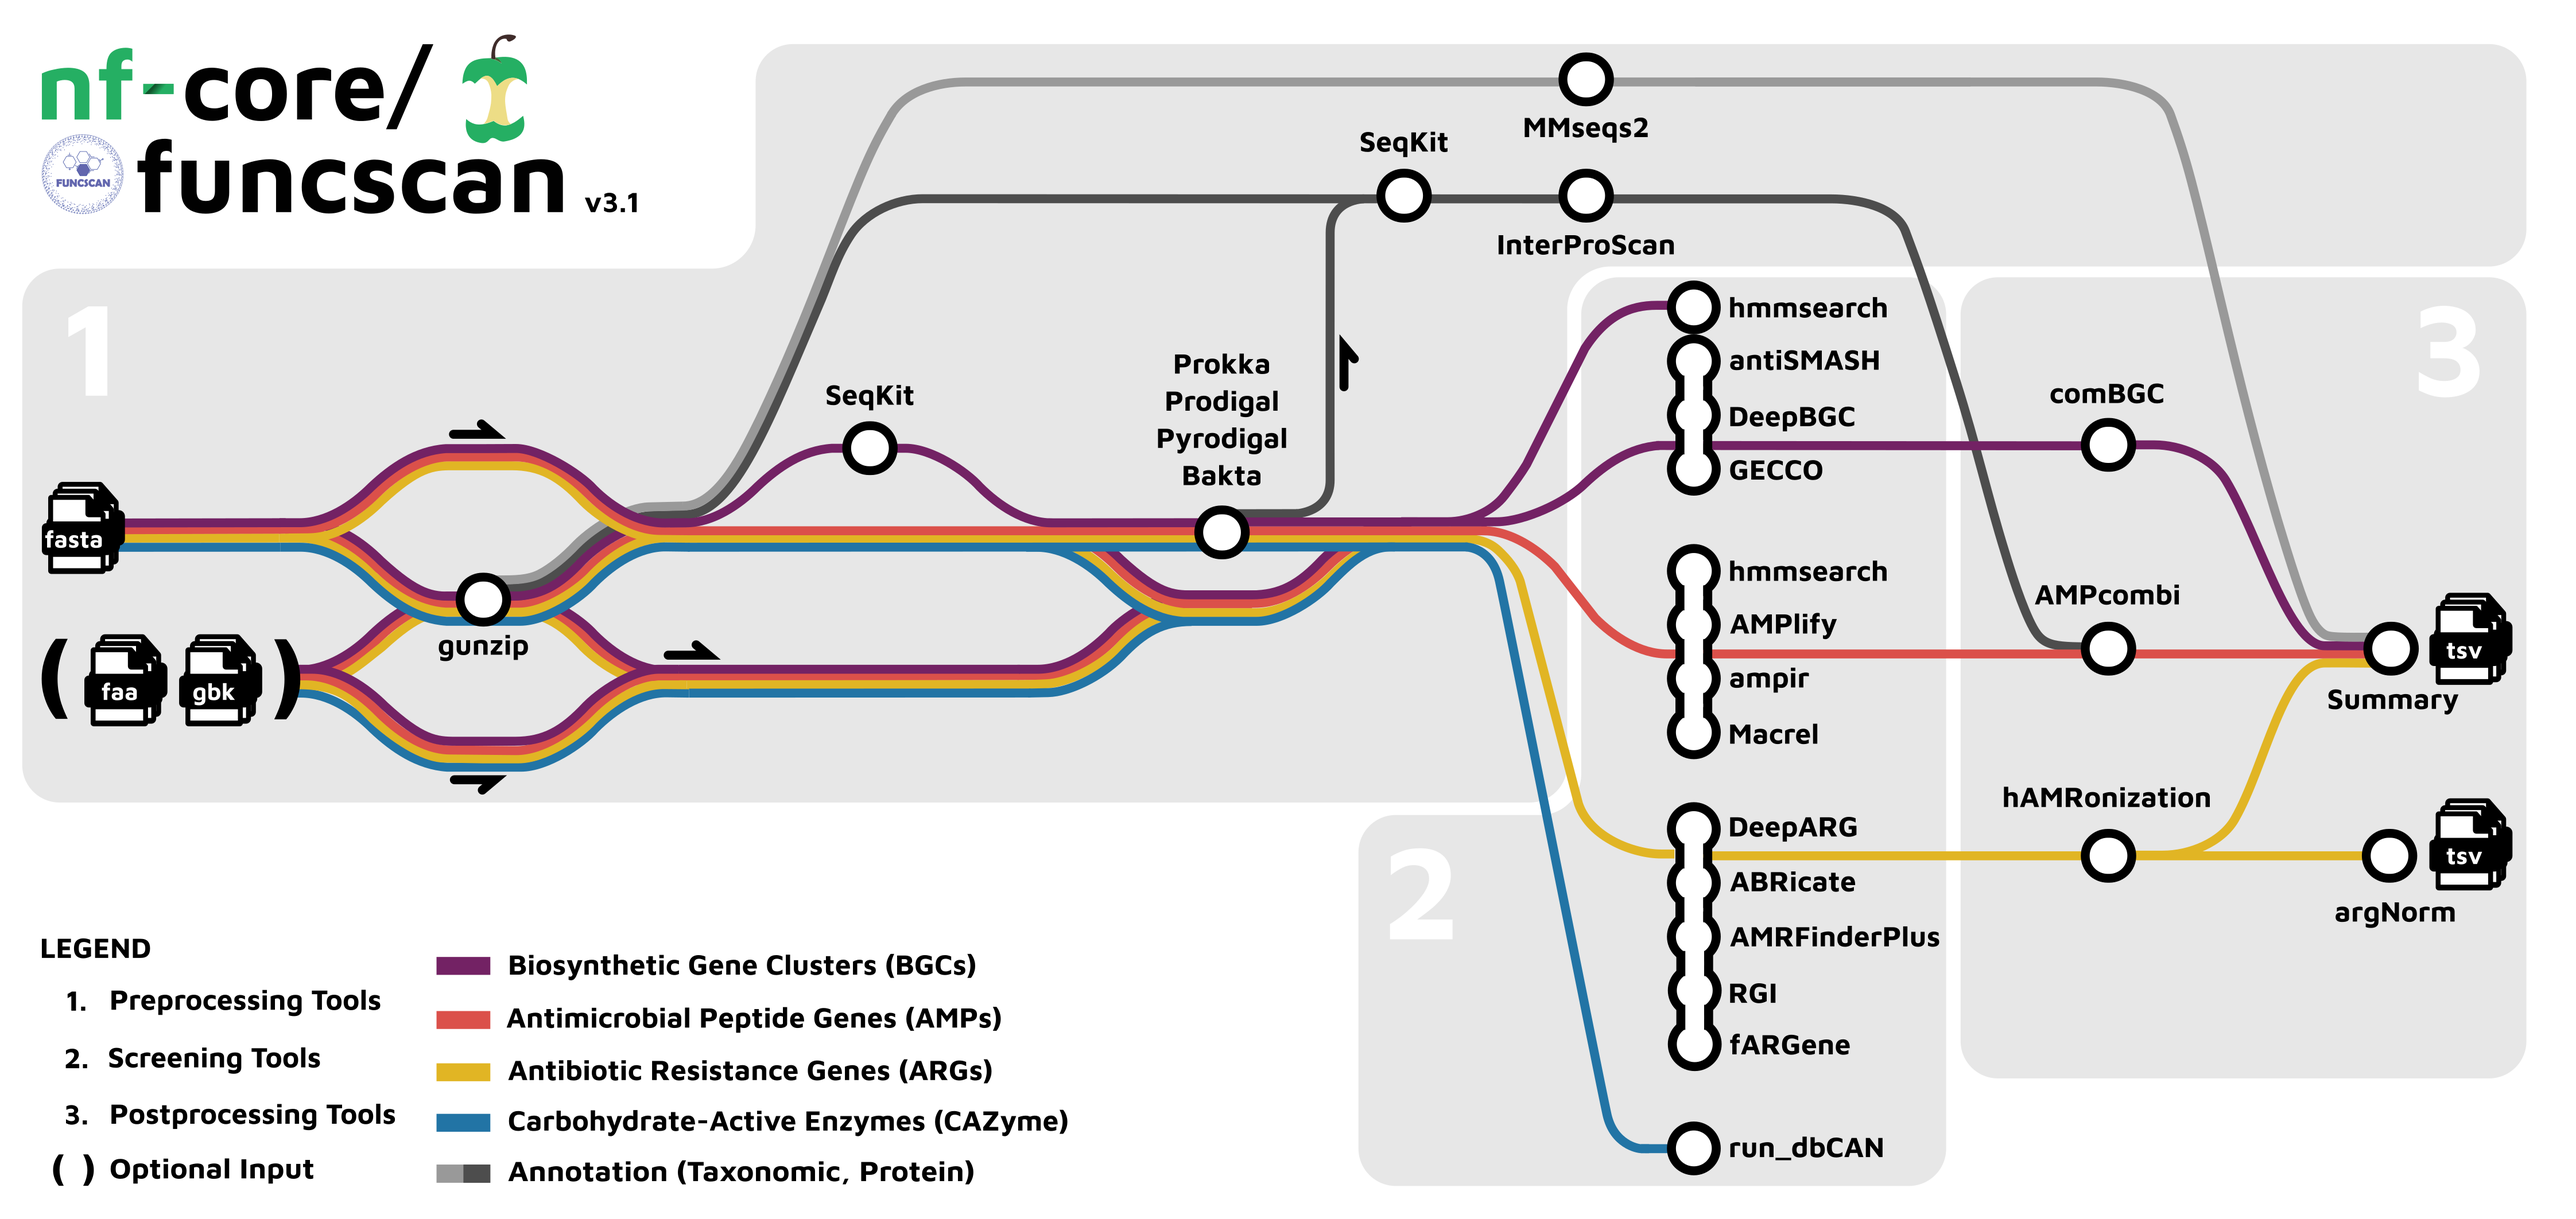
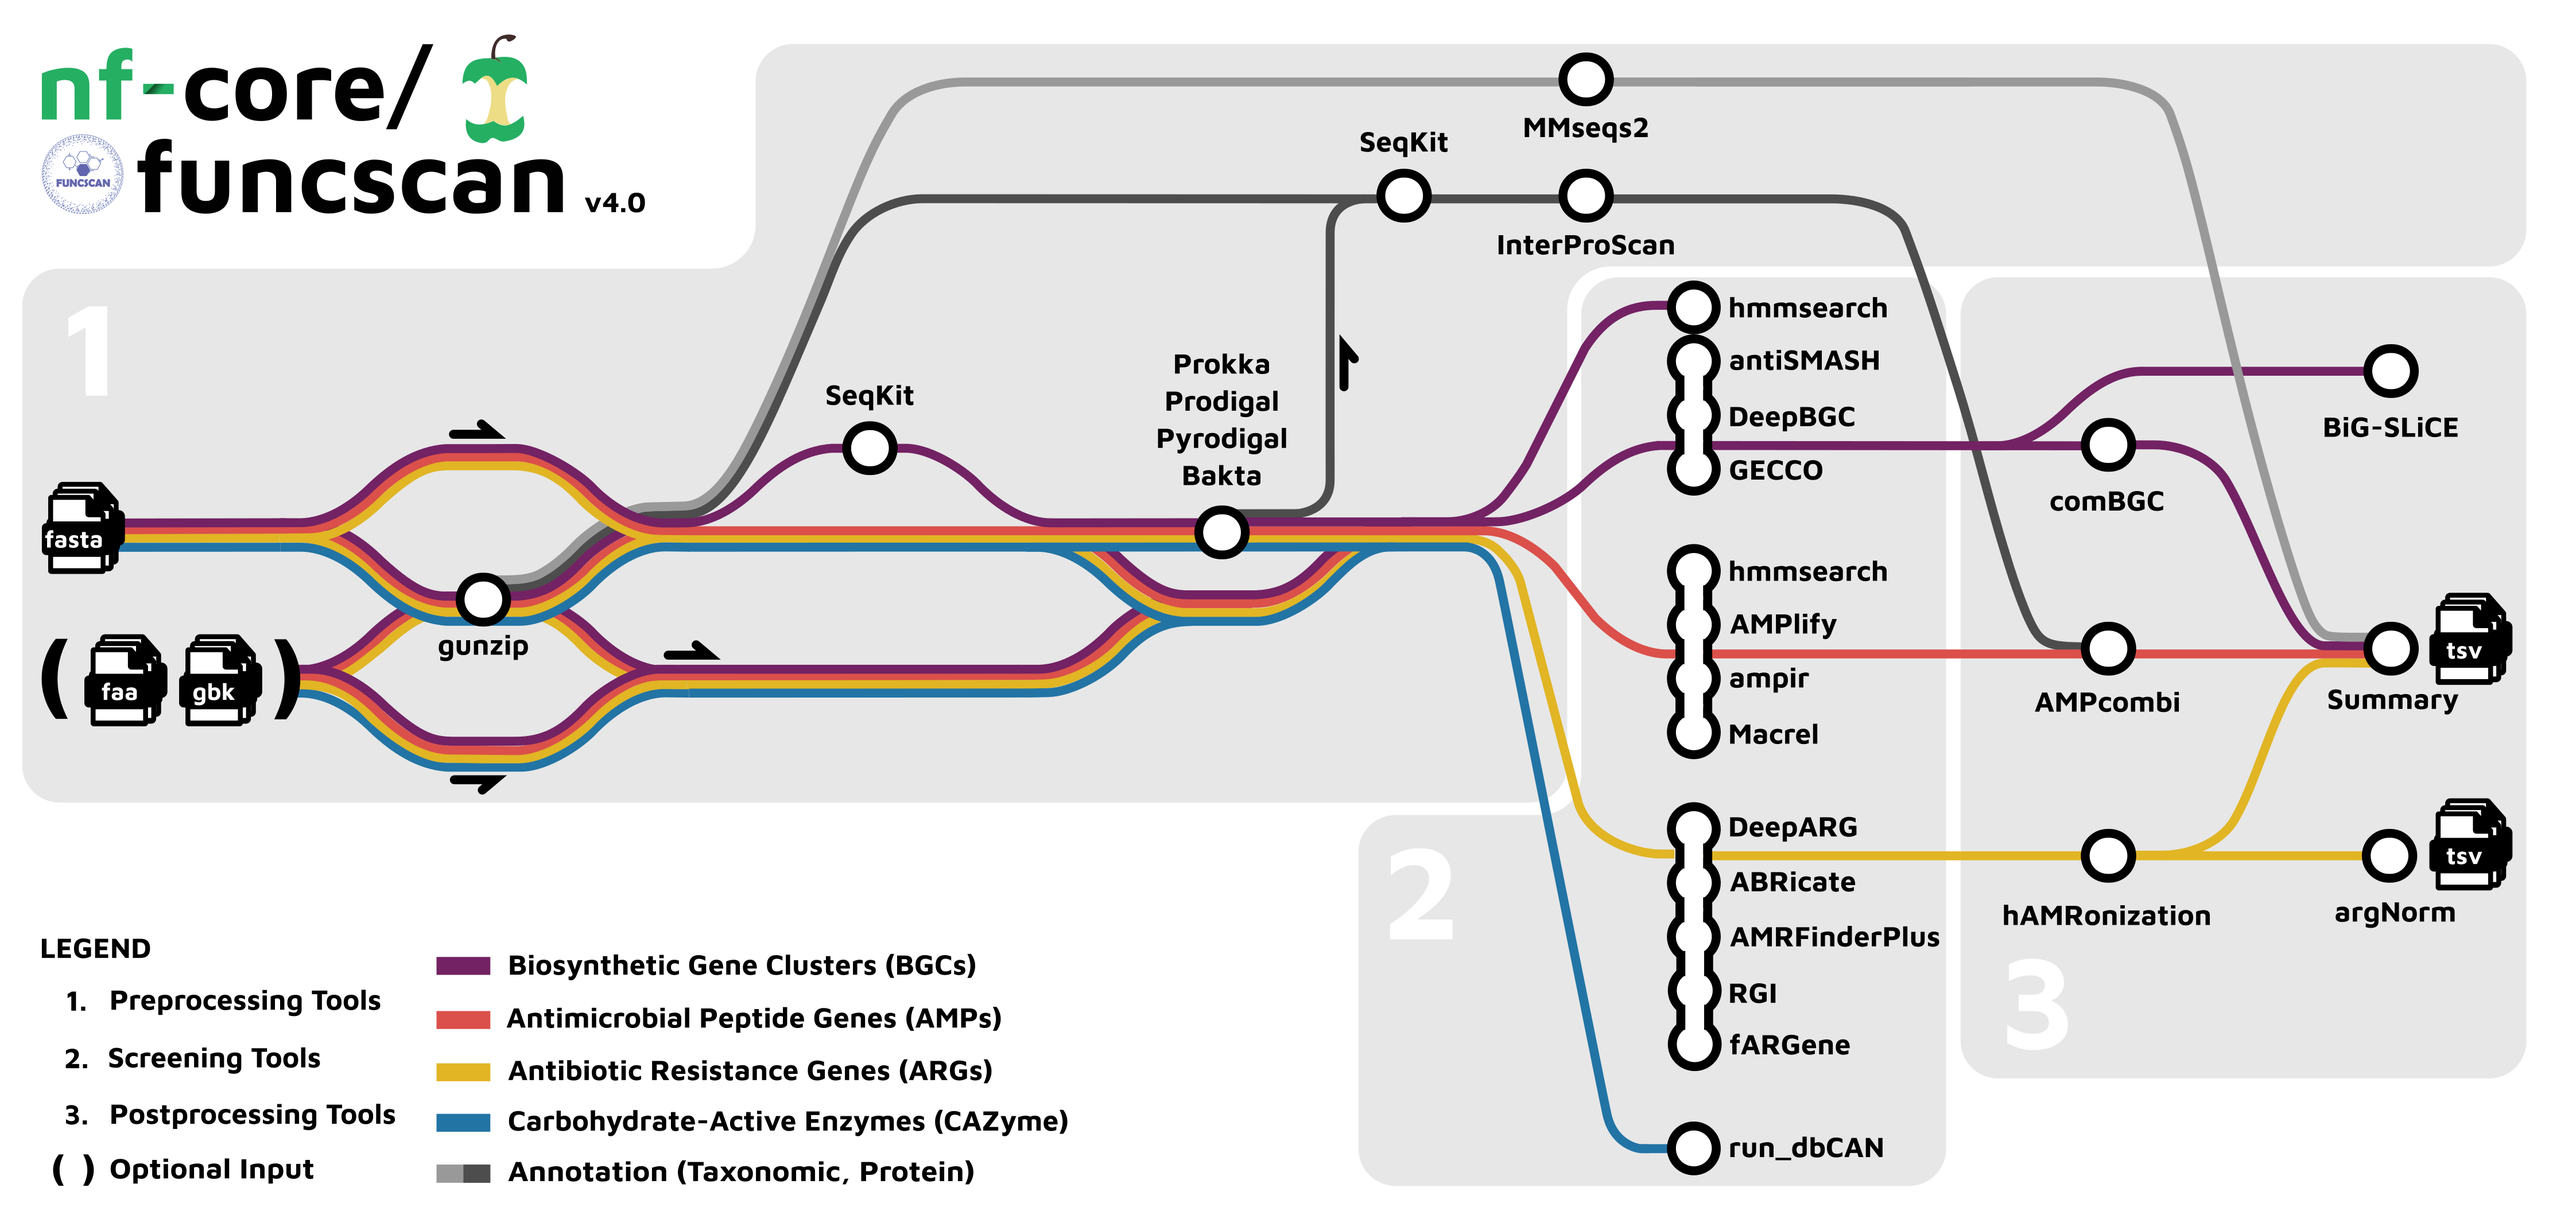
Push updates in paper.md

diff --git a/paper/paper.md b/paper/paper.md
@@ -115,16 +115,16 @@ To maximise the potential of detecting important functional genes, researchers o
 Since these tools are often developed as stand-alone tools with specific databases they have to be executed separately.
 This impedes scalability due to inefficiency and additionally poses an increased risk of lowering reproducibility when executed manually.
 While some tools are available as software containers (e.g. via Docker, Singularity), thus helping reproducibility of results, they often require a series of steps to prepare input data and manually store and filter results.
-Additionally, stand-alone tools have their own unique output format, making cross-comparison of the results between different tools nontrivial, and often results in manual processing and inspection - again further restricting scalability.
+Additionally, stand-alone tools have their own unique output formats, making cross-comparison of the results between different tools nontrivial, and often results in manual processing and inspection - again further restricting scalability.
 
 Previous efforts to scale up the predictive power of different tools for functional gene prediction include pipelines such as mettannotator, bacannot, SqueezeMeta, MetaErg, METABOLIC, HT-ARGfinder, ARGs-OAP, PathoFact, and antiSMASH.
-However, to our knowledge, no pipeline has been created that allows for the identification and prediction of antimicrobial peptide (AMP) genes, ARGs, and biosynthetic gene clusters (BGCs) simultaneously from multiple samples in a harmonised manner.
+However, to our knowledge, no pipeline has been created that allows for the identification and prediction of antimicrobial peptide (AMP) genes, ARGs, biosynthetic gene clusters (BGCs), carbohydrate-active enzymes (CAZymes), and CAZyme gene clusters (CGCs) simultaneously from multiple samples in a harmonised manner.
 Additionally, extensive command-line knowledge and manual installation of software dependencies are required to run many of these existing pipelines.
 This effectively precludes their use by biochemists, biomolecular scientists, and biologists who typically have limited computational training.
 
 Here, we present nf-core/funcscan, a Nextflow pipeline following nf-core best practices for the simultaneous screening of multiple functional and biosynthetic components from assembled microbial contiguous sequences (contigs).
-The pipeline predicts ARGs, BGCs, AMP-encoding genes, and provides taxonomic information of the producing organisms from (meta)genomic sequences parallel in a portable, reproducible, and scalable manner.
-This allows researchers to obtain a holistic view on the genomic context of identified genes for downstream analyses in the context of antimicrobial resistance
+The pipeline predicts ARGs, BGCs, AMP-encoding genes, CAZymes, CGCs, and provides taxonomic information of the producing organisms from (meta)genomic sequences parallel in a portable, reproducible, and scalable manner.
+This allows researchers to obtain a holistic view on the genomic context of identified genes for downstream analyses in the context of antimicrobial resistance.
 
 # State of the field
 
@@ -134,7 +134,7 @@ Several pipelines have been developed to chain single-purpose tools together to 
 Pipelines with similar functionality to nf-core/funcscan have been developed, with the most similar being mettannotator (Table 1).
 This pipeline meets the criteria of scalability and reproducibility on the same level as nf-core/funcscan, due to its similar implementation in Nextflow and in most parts also based on the nf-core pipeline template.
 While focused on somewhat different gene types (e.g. snRNA, mobilome), shared features include ARG and BGC prediction as well as aggregation of results.
-In contrast, nf-core/funcscan provides additional AMP screening, CAZyme screening, and the integration of taxonomic classifications for all genes to provide additional ecological context around predicted genes.
+In contrast, nf-core/funcscan provides additional AMP screening and the integration of taxonomic classifications for all genes to provide additional ecological context around predicted genes.
 Regarding pipeline stability and reliability, nf-core/funcscan is the only pipeline to implement comprehensive unit tests on module and pipeline level, using the nf-test framework (Table \ref{tab:pipelines}).
 
 | Feature                                 | funcscan | mettannotator | bacannot | HT-ARGfinder | PathoFact | SqueezeMeta | MetaERG | ARGs-OAP |
@@ -158,35 +158,37 @@ Regarding pipeline stability and reliability, nf-core/funcscan is the only pipel
 
 # Workflow overview
 
-nf-core/funcscan simultaneously predicts antimicrobial peptide (AMP) genes, antibiotic resistance genes (ARGs), biosynthetic gene clusters (BGCs) as well as carbohydrate active enzyme gene clusters (CGC) from partial or full (meta)genomic sequences.
+nf-core/funcscan simultaneously predicts AMPs, ARGs, BGCs as well as CGCs from partial or full (meta)genomic sequences.
 In addition, the bacterial taxonomy of input sequences is determined and standardised summaries of all tool outputs are provided (Fig. \ref{fig:workflow}).
 
 ![Workflow overview of nf-core/funcscan.
 (1), genomic sequences are prepared and annotated with one of four ORF annotation tools.
 Two additional classification workflows can be used to classify contigs taxonomically (light gray) or obtain additional protein domain information (dark gray).
-(2), depending on which workflows are selected by the user, the biosynthetic gene cluster (BGC, purple), antimicrobial peptide (AMP, orange), antibiotic resistance gene (ARG, yellow), or carbohydrate-active enzymes (CAZyme) workflows with their customisable parameters are executed.
+(2), depending on which workflows are selected by the user, the biosynthetic gene cluster (BGC, purple), antimicrobial peptide (AMP, orange), antibiotic resistance gene (ARG, yellow), or carbohydrate-active enzymes (CAZyme, blue) workflows with their customisable parameters are executed.
 (3), the results of all tools for each gene category are aggregated and saved in a human- and machine-readable tabular format.\label{fig:workflow}](figure1.png)
 
 ## Input preprocessing and open reading frame annotation
 
-The pipeline processes a two- to four- column table (comma-separated, CSV format) sample-sheet as input.
+The pipeline processes a two-, four-, or five-column table (comma-separated, CSV format) sample-sheet as input.
 Sample names and paths to the respective nucleotide FASTA files containing (meta)genomic contigs or genomes to be screened are required.
 Optionally, pre-annotated sequence files can be supplied to the pipeline in the four-column sample-sheet variant with ORF amino acid sequences in FASTA format, and their respective annotations in GenBank Flat File format.
-During preprocessing, any gzipped sequence files are decompressed, and, when running the BGC subworkflow, short contigs are removed by SeqKit (default: contigs shorter than 3,000 bp) to reduce runtime by removing too-short sequences that produce no biologically meaningful results.
+Additionally, GFF annotation files can be provided in a fifth column.
+During preprocessing, all gzipped sequence files are decompressed, and, when running the BGC subworkflow, short contigs are removed by SeqKit (default: contigs shorter than 3,000 bp) to reduce runtime by removing too-short sequences that produce no biologically meaningful results.
 Open reading frames are predicted from the preprocessed sequences by one of four prokaryotic annotation tools (Bakta, Prodigal, Prokka, and Pyrodigal).
 If annotated sequence files as described above are provided in the sample-sheet, this step is skipped.
 
 Various tools of nf-core/funcscan rely on databases and reference files to operate.
 The pipeline offers the functionality to download these databases automatically for the user, which can then be stored and reused in future pipeline runs to minimise pipeline runtime, network traffic, and possible download limits.
-The database download is applicable for MMSeqs2, Bakta, AMPcombi, AMRFinderPlus, DeepARG, RGI, antiSMASH, DeepBGC, and InterProScan.
+The database download is applicable for AMPcombi, AMRFinderPlus, antiSMASH, Bakta, BiG-SLiCE, DeepARG, DeepBGC, InterProScan, MMSeqs2, and RGI.
 
 ## Gene prediction and taxonomic classification
 
-In a second step, users can choose to scan genomic sequences in parallel with three dedicated workflows for AMPs, ARGs and BGCs, applying up to currently a total of 12 gene identification tools:
+In a second step, users can choose to scan genomic sequences in parallel with four dedicated workflows for AMPs, ARGs, BGCs, and CAZymes, applying up to currently a total of 13 gene identification tools:
 
 - ARG subworkflow: ABRicate, AMRFinderPlus, DeepARG, fARGene, RGI
 - BGC subworkflow: antiSMASH, DeepBGC, GECCO, hmmsearch
 - AMP subworkflow: ampir, AMPlify, hmmsearch, Macrel
+- CAZyme subworkflow: dbCAN
 
 In an additional optional parallel screening step, all input sequences can be taxonomically classified by MMSeqs2 to determine likely source hosts of each functional hit.
 Characterising the taxonomic origin of metagenomic contigs can provide users information about potentially suitable hosts for downstream experiments, e.g. heterologous expression systems.
@@ -216,7 +218,7 @@ The performance of each pipeline run (including software versions of all applied
 # Research impact statement
 
 nf-core/funcscan has developed an active user community of scientific users and developers who continuously contribute ideas, bug reports and code via issues and pull requests on GitHub.
-The pipeline is already being actively used in research (https://www.mdpi.com/2076-2607/14/1/145, https://link.springer.com/article/10.1007/s12602-025-10718-9, https://pmc.ncbi.nlm.nih.gov/articles/PMC12051446/, https://link.springer.com/article/10.1007/s12223-026-01445-x).
+The pipeline is actively being used in research (https://www.mdpi.com/2076-2607/14/1/145, https://link.springer.com/article/10.1007/s12602-025-10718-9, https://pmc.ncbi.nlm.nih.gov/articles/PMC12051446/, https://link.springer.com/article/10.1007/s12223-026-01445-x).
 Additionally, the pipeline received a contribution of a whole new workflow (CAZyme screening) by new community members outside of the original developers.
 Discussions of pipeline as well as research domain related topics happen on the open-to-join nf-core workspace on the Slack platform. This illustrates the public interest and proactive efforts from scientific users to use, maintain, and improve the pipeline functionalities.
 
